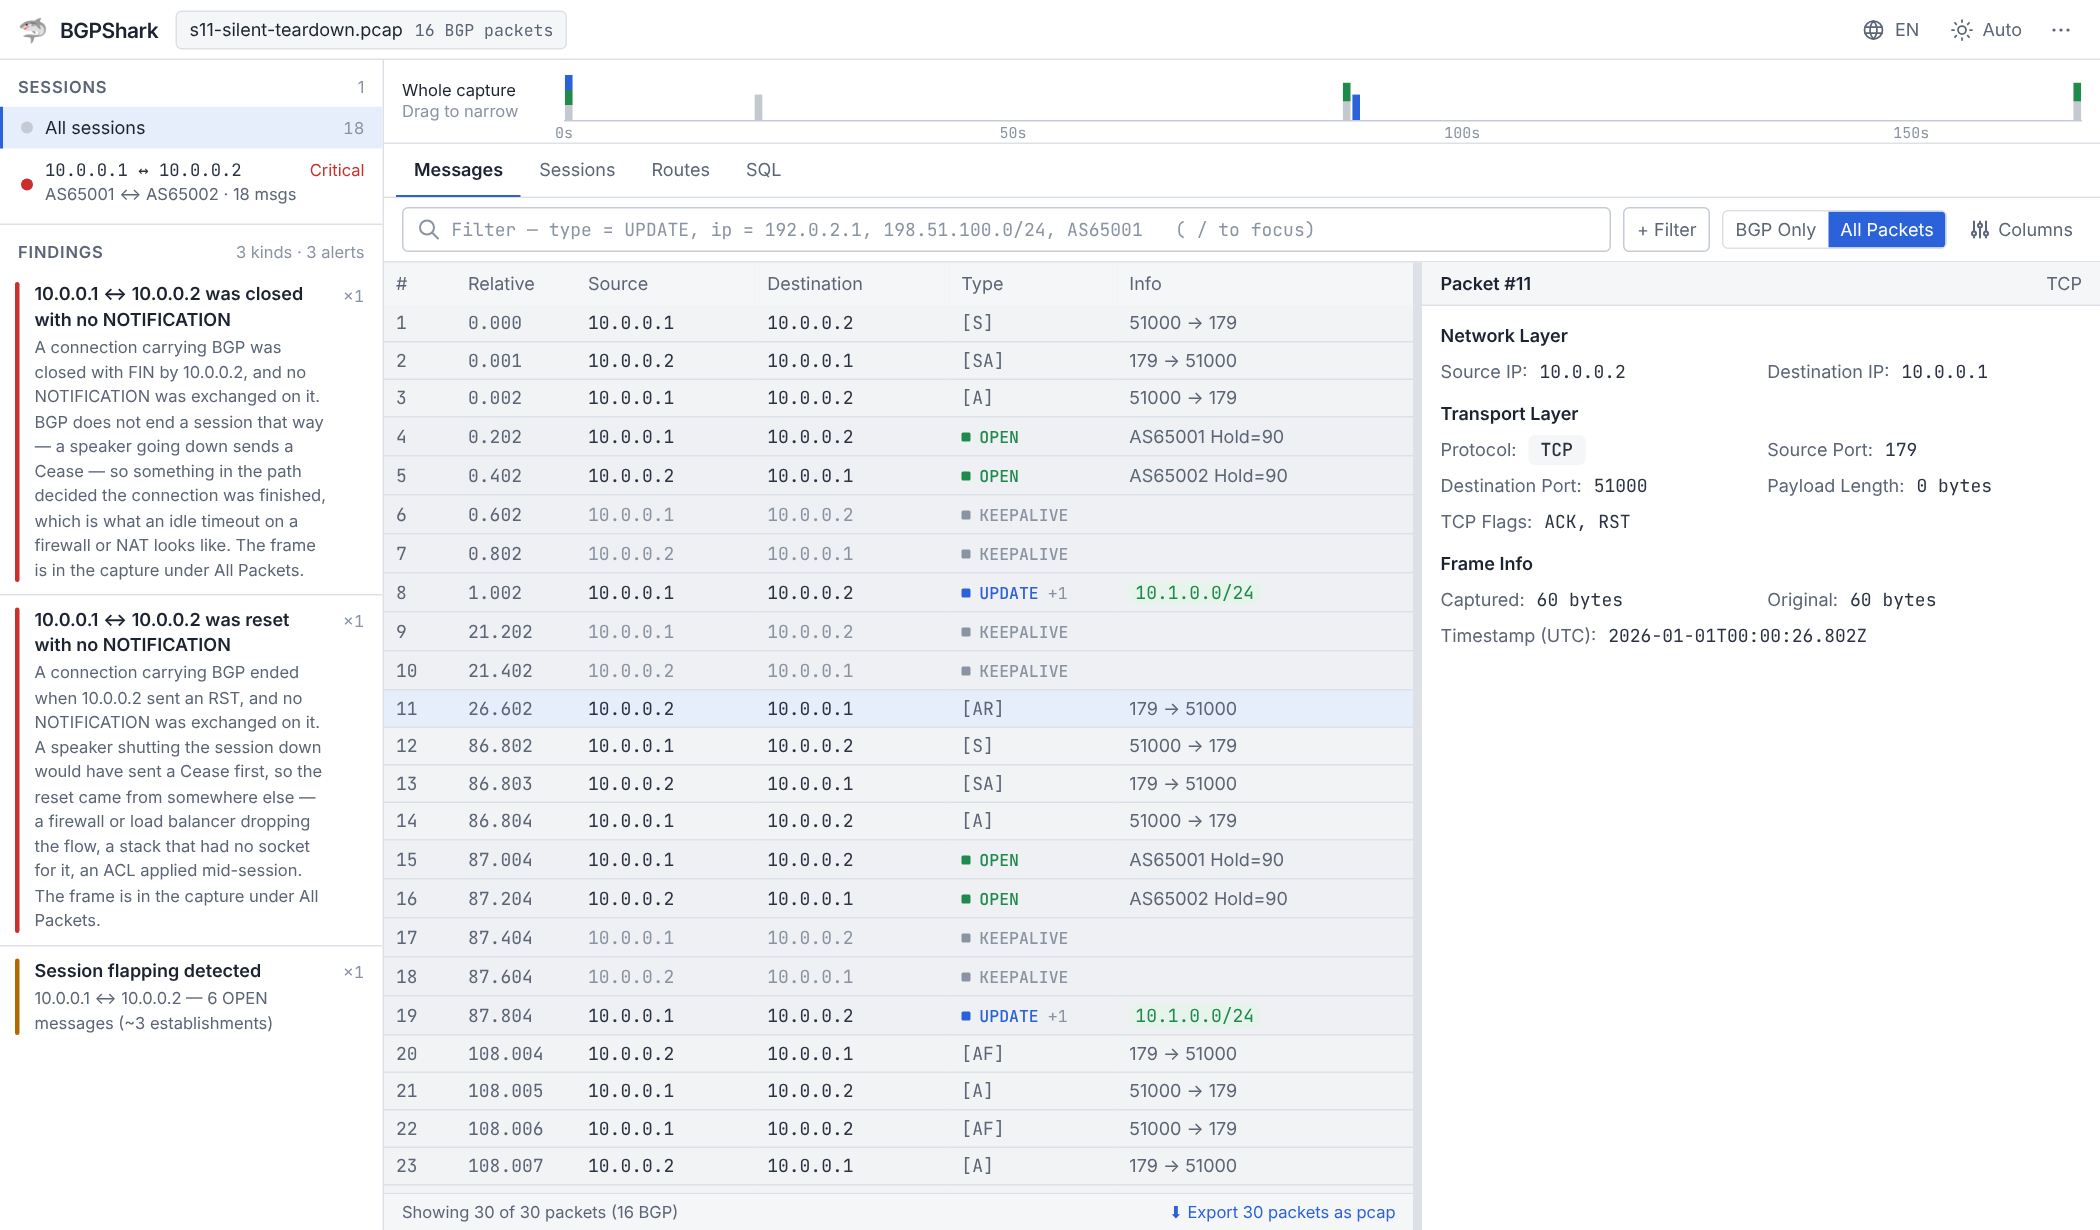
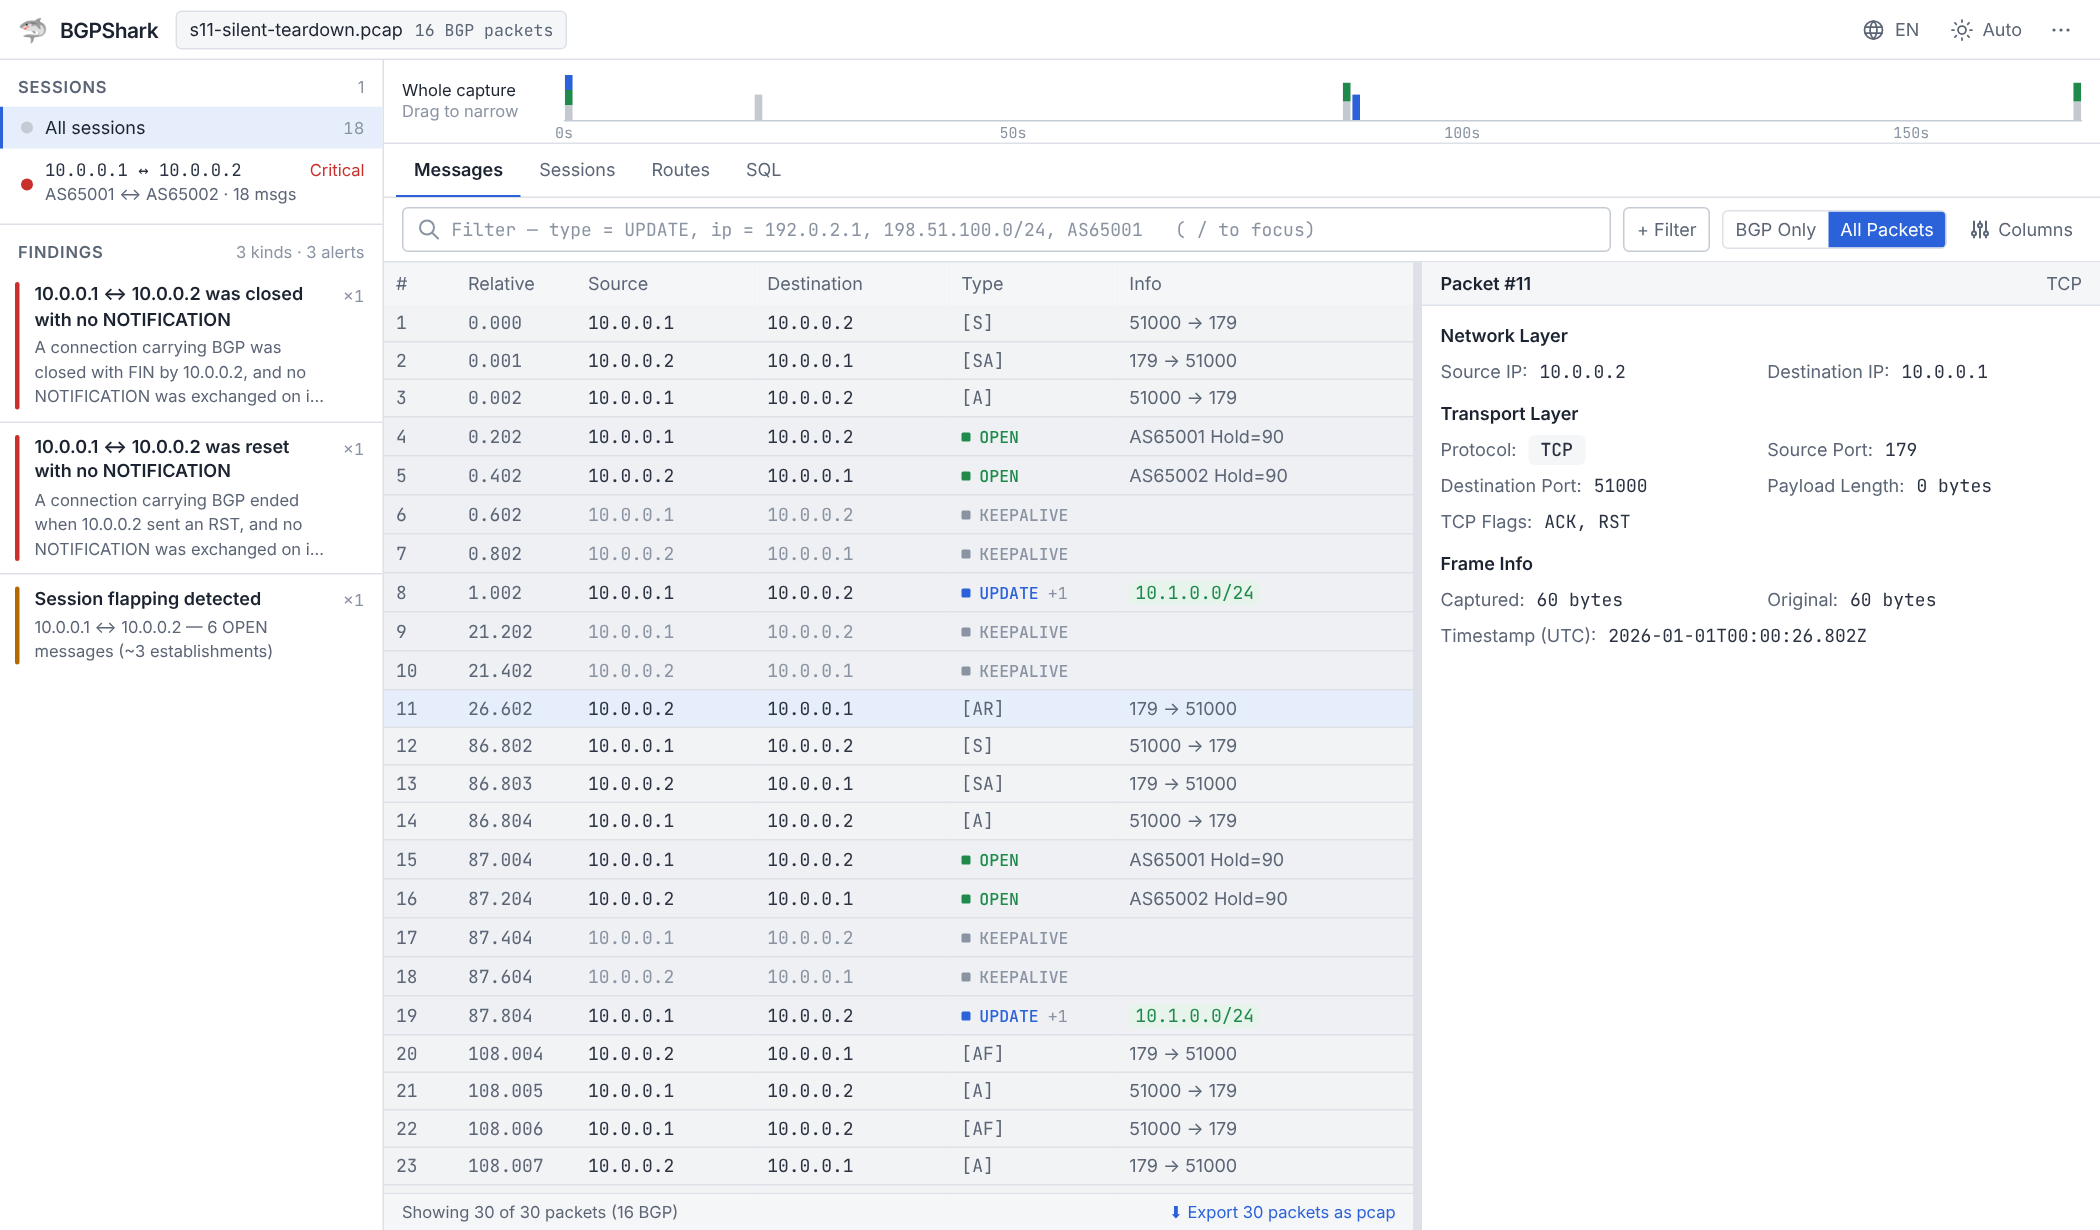
Keep finding instances legible and count summary rows
- An instance's time range gets its own line, and its count sits outside
  the truncated label, so neither the prefix nor ×N is pushed out of sight.
- Drop `block` beside `line-clamp-*`, which overrode the clamp's display
  and let long details run to full length.
- The "N more prefixes" summary rows carry the rest's flaps and paths as
  their count, so a group's total covers every route rather than the
  listed ones plus one; the summary row itself shows no ×N, since its
  title and detail already give its size.
- Regenerate the affected manual screenshots.

Claude-Session: https://claude.ai/code/session_016RsczptkGU5Utshyx1y4Mu

Changed region(s): [[0.0, 0.3398, 0.1548, 0.8341]]

diff --git a/src/components/workspace/SessionRail.tsx b/src/components/workspace/SessionRail.tsx
@@ -180,7 +180,9 @@ function FindingRow({ group, onNavigate }: { group: FindingGroup; onNavigate?: (
               next, so it is shown rather than left to a tooltip; clamped so a
               long explanation does not push the rest of the list away. */}
           <span
-            className={`mt-0.5 block text-[11px] text-muted ${single ? 'line-clamp-3' : 'truncate'}`}
+            // `line-clamp-*` sets its own display; `block` beside it would
+            // override that and let a long detail run to its full length.
+            className={`mt-0.5 text-[11px] text-muted ${single ? 'line-clamp-3' : 'block truncate'}`}
             title={single ? group.alerts[0].detail : undefined}
           >
             {single ? group.alerts[0].detail : t.workspace.groupSessions(group.peerings.length)}
@@ -201,23 +203,27 @@ function FindingRow({ group, onNavigate }: { group: FindingGroup; onNavigate?: (
                 className="group block w-full py-1 pr-3 text-left text-[11px] text-muted"
                 title={alert.detail}
               >
+                {/* The label is the only part that may be cut short. The
+                    count sits outside it, and a time range gets its own line:
+                    beside the label it took most of the width and pushed both
+                    the prefix and its count out of sight. */}
                 <span className="flex items-baseline justify-between gap-2 group-hover:text-accent">
-                  <span className="min-w-0 truncate font-mono">
-                    {instanceLabel(alert, group)}
-                    {alert.count !== undefined && alert.count > 1 && (
-                      <span className="text-dim"> ×{alert.count}</span>
+                  <span className="flex min-w-0 items-baseline gap-1">
+                    <span className="min-w-0 truncate font-mono">{instanceLabel(alert, group)}</span>
+                    {/* A summary row's title and detail already give its size. */}
+                    {alert.count !== undefined && alert.count > 1 && !isSummary(alert) && (
+                      <span className="shrink-0 tabular-nums text-dim">×{alert.count}</span>
                     )}
                   </span>
-                  {alert.timeSpan ? (
-                    <span className="shrink-0 tabular-nums text-dim">{spanLabel(alert.timeSpan)}</span>
-                  ) : (
-                    alert.timestamp && (
-                      <span className="shrink-0 tabular-nums text-dim">{formatTimeOfDayUtc(alert.timestamp)}</span>
-                    )
+                  {!alert.timeSpan && alert.timestamp && (
+                    <span className="shrink-0 tabular-nums text-dim">{formatTimeOfDayUtc(alert.timestamp)}</span>
                   )}
                 </span>
+                {alert.timeSpan && (
+                  <span className="mt-px block tabular-nums text-dim">{spanLabel(alert.timeSpan)}</span>
+                )}
                 {instanceDetail(alert, group) && (
-                  <span className="mt-px block text-dim line-clamp-2">{instanceDetail(alert, group)}</span>
+                  <span className="mt-px text-dim line-clamp-2">{instanceDetail(alert, group)}</span>
                 )}
               </button>
             </li>
@@ -226,6 +232,11 @@ function FindingRow({ group, onNavigate }: { group: FindingGroup; onNavigate?: (
       )}
     </div>
   )
+}
+
+/** The "N more prefixes …" rows that stand for the routes past the rule's limit. */
+function isSummary(alert: DashboardAlert): boolean {
+  return alert.id.endsWith('-more')
 }
 
 /** First to last occurrence of a repeated finding, in the packet list's clock. */
@@ -244,7 +255,7 @@ function instanceLabel(alert: DashboardAlert, group: FindingGroup): string {
   // Route rules filter on the route they are about, which is the subject.
   // The summary rows ("5 more prefixes flapped") have no single route.
   const subject = alert.filter.match(/^(?:prefix|mac) = (.+)$/)?.[1]
-  if (subject && !alert.id.endsWith('-more')) return subject
+  if (subject && !isSummary(alert)) return subject
   // Instances that share one title (withdrawal bursts) differ only in their
   // detail, so the detail is what tells them apart.
   if (group.alerts.every((other) => other.title === alert.title)) return alert.detail

diff --git a/src/components/dashboard/alerts.ts b/src/components/dashboard/alerts.ts
@@ -233,6 +233,9 @@ function computeRouteAlerts(stats: PrefixStats[], locale: Locale): DashboardAler
       detail: t.morePrefixesFlappedDetail(restFlaps),
       timestamp: null,
       filter: 'type=UPDATE',
+      // The rows above count their flaps, so this one counts the rest's:
+      // the group's total is then every flap, not the listed ones plus one.
+      count: restFlaps,
     })
   }
 
@@ -317,6 +320,9 @@ function computeRouteAlerts(stats: PrefixStats[], locale: Locale): DashboardAler
       detail: t.moreAsPathChangedDetail,
       timestamp: null,
       filter: 'type=UPDATE',
+      // Counted like the rows above (paths seen per route), for the same
+      // reason as the flap summary.
+      count: rest.reduce((sum, { change }) => sum + change.paths.length, 0),
     })
   }
 
